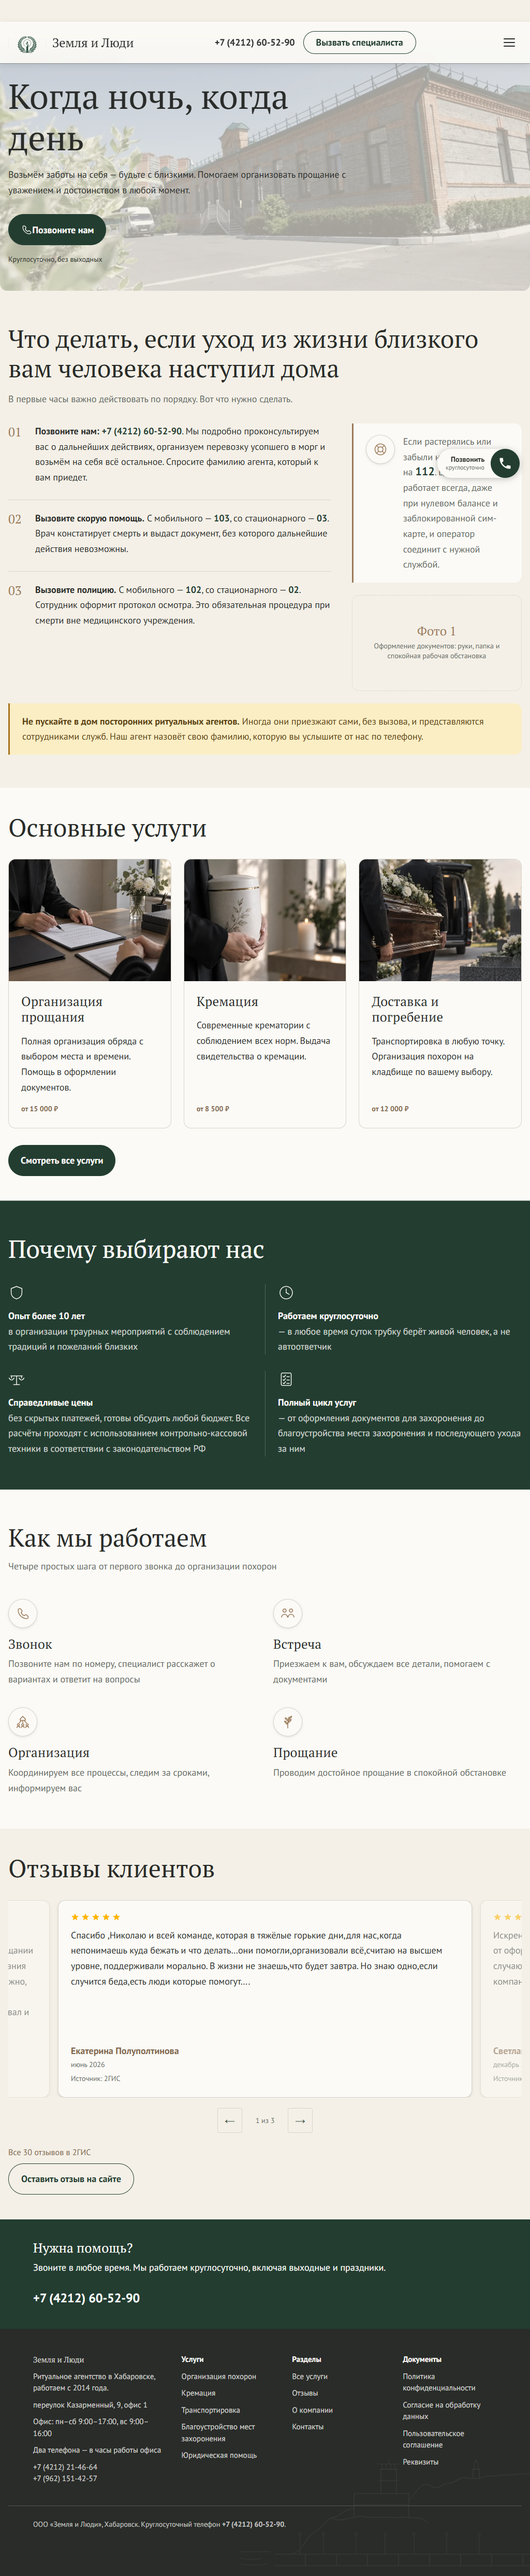
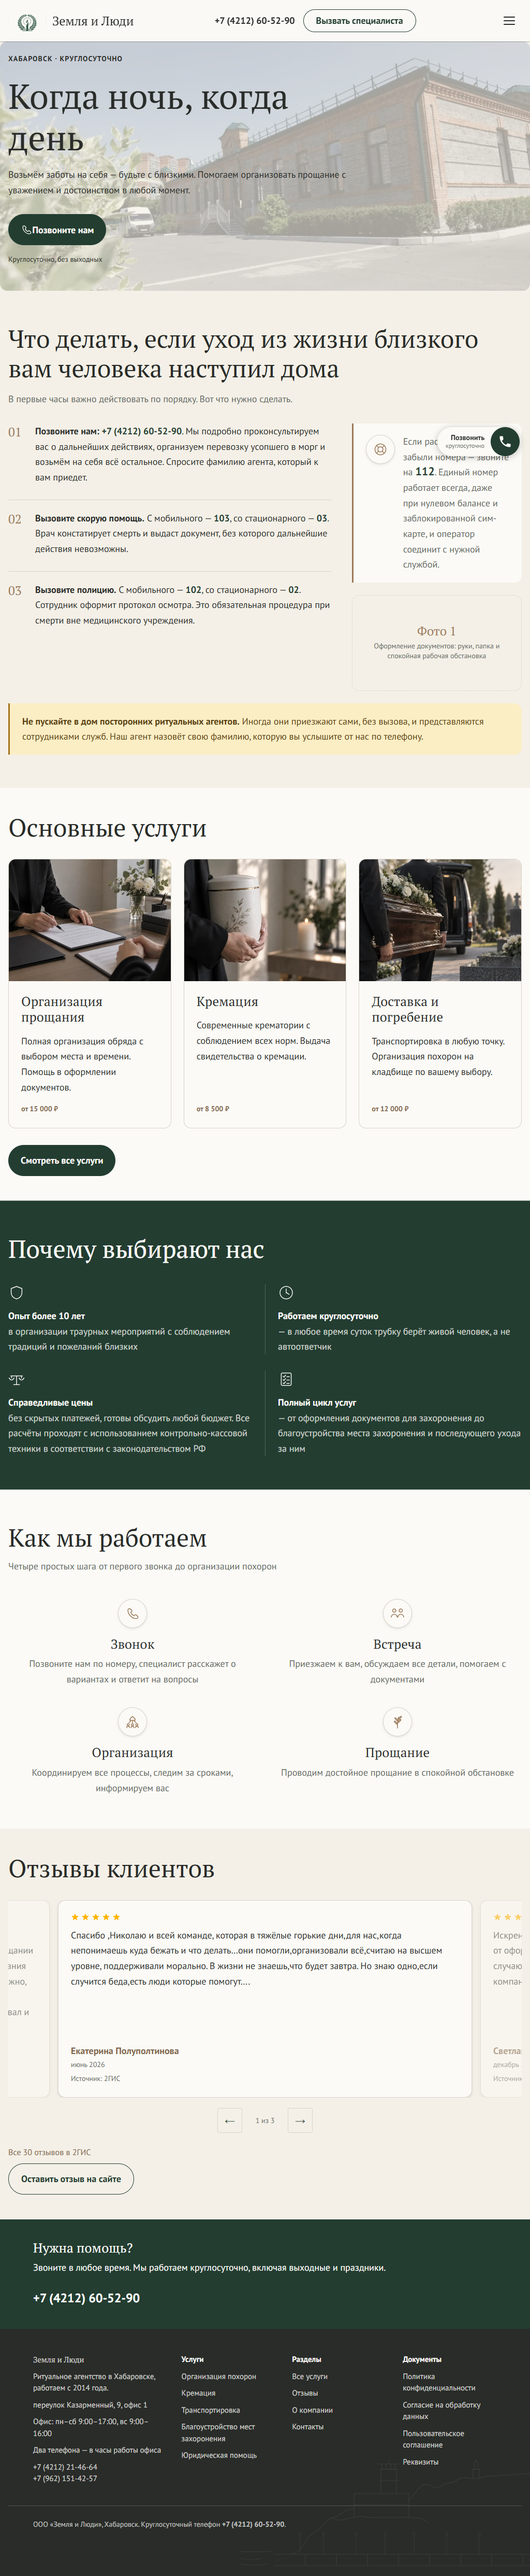
Этапы: содержимое по центру колонок, линия по центрам кружков, пороги 1050 и 760

diff --git a/wp-content/themes/razil/assets/css/main.css b/wp-content/themes/razil/assets/css/main.css
@@ -2982,14 +2982,26 @@ header.wp-block-template-part:not(:has(.rz-breadcrumbs)) + .wp-block-group {
 	color: var(--rz-ink-soft);
 }
 
-@media (max-width: 67.99rem) {
+/* Пороги раскладки: до 1050 px две колонки, до 760 px столбик.
+
+   Прежние 67.99rem (1087.84 px) и 47.99rem (767.84 px) заменены
+   на 65.625rem (1050) и 47.5rem (760). 1050 — тот же порог, на
+   котором в шапке появляется навигация: на этой ширине контейнер
+   даёт колонке 266 px, и четвёртый шаг уже не помещается в строку
+   без переноса заголовка.
+
+   Условия ветвей дополняют друг друга без щели: до 1050 включительно
+   две колонки, выше — четыре из основного правила. Дробных значений
+   вроде 67.99rem больше нет, поэтому на экране шириной 1050.5 px
+   не остаётся раскладки «ничья». */
+@media (max-width: 65.625rem) {
 	.rz-steps__grid {
 		grid-template-columns: repeat(2, minmax(0, 1fr));
 		gap: 2.5rem 2rem;
 	}
 }
 
-@media (max-width: 47.99rem) {
+@media (max-width: 47.5rem) {
 	.rz-steps__grid {
 		grid-template-columns: minmax(0, 1fr);
 		gap: 2rem;
@@ -4569,26 +4581,63 @@ html:not(.rz-js) .rz-cb-open {
 	background: none;
 }
 
+/* Содержимое шага стоит по центру своей колонки.
+
+   До правки всё в шаге равнялось по левому краю, и кружок иконки
+   прижимался к левой кромке колонки. Замер на 1366: центры кружков
+   131, 429, 727, 1025 при центрах колонок 236, 534, 832, 1130 —
+   каждый кружок смещён от центра своей колонки на 105 px влево.
+   Линия процесса шла от 131 до 1025, и справа от неё до правого
+   края сетки оставался хвост в 238 px. Ряд читался сдвинутым влево,
+   хотя сама сетка стоит в контейнере ровно: поля 103 | 103
+   на 1366 и 380 | 380 на 1920.
+
+   На вертикальной раскладке центровка снимается: там колонка одна
+   и во всю ширину, а абзац в три строки по центру читается хуже,
+   чем по левому краю. */
+.rz-step {
+	text-align: center;
+}
+
 /* Линия проходит под кружками иконок и обрывается на их центрах.
 
-   Кружок стоит у левого края колонки, поэтому слева линия начинается
-   на его половине — 1.75rem при диаметре 3.5rem. Справа до центра
-   последнего кружка остаётся 25% - 0.75g - 1.75rem; при зазоре
-   g = 2rem это 25% - 3.25rem. Замерено: линия кончается ровно
-   на центре четвёртого кружка.
+   Кружки теперь стоят по центрам колонок, поэтому с каждой стороны
+   линия отступает на половину колонки. При четырёх дорожках и трёх
+   зазорах g ширина колонки — (100% - 3g)/4, половина — (100% - 3g)/8;
+   при g = 2rem это (100% - 6rem)/8. Отступ одинаков слева и справа,
+   и линия получается симметричной — в отличие от прежней арифметики
+   1.75rem слева и 25% - 3.25rem справа, которая отсчитывалась
+   от кружка, прижатого к левому краю колонки.
+
+   Проценты здесь считаются от ширины самой сетки: она
+   position: relative и служит содержащим блоком.
 
    Кружок .rz-icon непрозрачен и закрывает линию собой, поэтому
    отдельной подложки не нужно. Секция «Как мы работаем» идёт
    на --rz-surface, и заливка кружка та же — стык невидим. */
-@media (min-width: 68rem) {
+.rz-steps__grid::before {
+	content: "";
+	position: absolute;
+	left: calc((100% - 6rem) / 8);
+	right: calc((100% - 6rem) / 8);
+	top: 1.75rem;
+	height: 1px;
+	background-color: var(--rz-line);
+}
+
+/* В двух колонках линии нет: она соединила бы шаги 1-2 и 3-4
+   в две несвязанные пары, а порядок процесса от этого перестал бы
+   читаться. Условие ветки то же самое, что у перехода на две
+   колонки, — 65.625rem: разойтись они не могут. */
+@media (max-width: 65.625rem) {
 	.rz-steps__grid::before {
-		content: "";
-		position: absolute;
-		left: 1.75rem;
-		right: calc(25% - 3.25rem);
-		top: 1.75rem;
-		height: 1px;
-		background-color: var(--rz-line);
+		content: none;
+	}
+}
+
+@media (max-width: 47.5rem) {
+	.rz-step {
+		text-align: start;
 	}
 }
 

diff --git a/_reports/fixes-main-2026-09-21.md b/_reports/fixes-main-2026-09-21.md
@@ -14,7 +14,7 @@
 |--------|-----------|---------|
 | 1. Шапка | завершена | ПРОШЁЛ |
 | 2. Боковой блок с примечанием 112 | завершена | ПРОШЁЛ |
-| 3. Блок «Как мы работаем» | не начата | — |
+| 3. Блок «Как мы работаем» | завершена | ПРОШЁЛ |
 | 4. Блок «Нужна помощь?» | не начата | — |
 | 5. Плавающая кнопка звонка | не начата | — |
 
@@ -566,3 +566,187 @@ tokens.css, строки 30–32). Я сначала перекрасил ико
 Предполагаемое лечение — `min-height: 100%` вместо `height: 100%`.
 
 **Вердикт задачи 2: ПРОШЁЛ.**
+
+---
+
+## Задача 3 — Блок «Как мы работаем»
+
+### Разведка: что было
+
+Замер до правки, 1366 и 1920 px:
+
+```
+1366:  сетка 103..1263   поля секции 103 | 103   колонки 266 266 266 266, зазор 32
+       центры колонок  236   534   832   1130
+       центры кружков  131   429   727   1025
+       линия           131 .. 1025
+       выравнивание    start
+
+1920:  сетка 380..1540   поля секции 380 | 380   колонки 266 266 266 266, зазор 32
+       центры колонок  513   811   1109  1407
+       центры кружков  408   706   1004  1302
+       линия           408 .. 1302
+```
+
+Смотрел снимок глазами. Сетка в контейнере стоит ровно — поля слева
+и справа равны, 103 | 103 и 380 | 380. Но внутри каждой колонки всё
+прижато влево, и кружок иконки стоит на 105 px левее центра своей
+колонки. Из-за этого вся цепочка кружков смещена к левому краю,
+а справа от последнего кружка до правой кромки сетки остаётся
+238 px пустоты. Раздел выглядит съехавшим влево, хотя сетка ни при
+чём — дело в выравнивании внутри колонок.
+
+Порог перехода на две колонки стоял на 67.99rem (1087.84 px),
+на одну — на 47.99rem (767.84 px).
+
+### Что сделано
+
+Только стили, разметка не тронута.
+
+| Правило | Было | Стало |
+|---------|------|-------|
+| `.rz-step` | выравнивание по левому краю | `text-align: center` |
+| `.rz-steps__grid::before` | `left: 1.75rem; right: calc(25% - 3.25rem)`, в ветке `min-width: 68rem` | `left`/`right`: `calc((100% - 6rem) / 8)`, в основном правиле |
+| две колонки | `max-width: 67.99rem` | `max-width: 65.625rem` (1050) |
+| одна колонка | `max-width: 47.99rem` | `max-width: 47.5rem` (760) |
+| линия на узких | выключалась порогом 68rem | `content: none` в ветке 65.625rem |
+| `.rz-step` на узких | — | `text-align: start` в ветке 47.5rem |
+
+Сетка и так была во всю ширину контейнера и из четырёх равных
+дорожек `repeat(4, minmax(0, 1fr))` — это осталось без изменений,
+включая `minmax(0, 1fr)`. Иконка-ветка осталась последней: порядок
+шагов в разметке не трогался вовсе.
+
+### Арифметика линии
+
+Кружки стоят по центрам колонок, значит с каждой стороны линия
+отступает на половину колонки. При четырёх дорожках и трёх зазорах
+`g` ширина колонки — `(100% - 3g) / 4`, половина — `(100% - 3g) / 8`;
+при `g = 2rem` это `calc((100% - 6rem) / 8)`. Проценты считаются
+от ширины сетки: она `position: relative` и служит содержащим
+блоком для псевдоэлемента. Обе стороны получают одно и то же
+выражение, поэтому линия симметрична по построению, а не по подгонке.
+
+### Замеры и критерии приёмки
+
+**К1. Линия совпадает с центрами первого и последнего кружка.**
+Проверка та же, что вёл прошлый прогон («линия 28..922, кружки
+28..922, СОВПАЛО»), пересчитанная под новую геометрию:
+
+```
+1366 z100  линия 236 .. 1130   кружки 236 .. 1130   СОВПАЛО
+1920 z100  линия 513 .. 1407   кружки 513 .. 1407   СОВПАЛО
+1051 z100  линия 131 .. 920    кружки 131 .. 920    СОВПАЛО
+1366 z200  линия 171 .. 1195   кружки 171 .. 1195   СОВПАЛО
+1920 z200  линия 240 .. 1680   кружки 240 .. 1680   СОВПАЛО
+```
+
+При 200 % текста совпадение сохраняется само: и зазор сетки,
+и вычитаемые 6rem заданы в rem и растут вместе с текстом.
+
+**К2. Поля контейнера слева и справа равны.**
+
+```
+1366: 103 | 103
+1920: 380 | 380
+```
+
+Сетка шагов начинается ровно там же, где заголовок раздела
+(`заголовок от 103` и `от 380`).
+
+**К3. Содержимое центрировано в своей колонке.** Центр кружка
+совпал с центром колонки на всех четырёх шагах:
+
+```
+1366: колонки 236 534 832 1130   кружки 236 534 832 1130
+1920: колонки 513 811 1109 1407  кружки 513 811 1109 1407
+```
+
+**К4. Пороги раскладки.** Проверены по обе стороны от каждого
+порога, а не «примерно»:
+
+| Ширина | Колонок | Линия | Выравнивание |
+|--------|---------|-------|--------------|
+| 375 | 1 | нет | по левому краю |
+| 760 | 1 | нет | по левому краю |
+| 761 | 2 | нет | по центру |
+| 1024 | 2 | нет | по центру |
+| 1050 | 2 | нет | по центру |
+| 1051 | 4 | есть | по центру |
+| 1366 | 4 | есть | по центру |
+| 1920 | 4 | есть | по центру |
+
+Ветви дополняют друг друга без щели: у перехода на две колонки
+и у выключения линии одно и то же условие `max-width: 65.625rem`,
+поэтому раскладки «четыре колонки без линии» или «две колонки
+с линией» не существует ни при какой ширине, включая дробные.
+
+**К5. Вертикальная раскладка — выравнивание по левому краю.**
+На 375 и 760 `text-align` возвращается к `start`: абзац в три
+строки во всю ширину экрана по центру читается хуже. Это
+единственное место, где центровка отменяется, и ограничено оно
+той же веткой, что и сама вертикальная раскладка (И16).
+
+**К6. Снимки.** Что вижу глазами на 1366: четыре кружка стоят
+на одной линии, расстояния от левого края сетки до первого кружка
+и от последнего до правого края одинаковы; под каждым кружком
+заголовок и три строки текста по центру колонки; иконка ветки —
+последняя. На 1024 две колонки по два шага, линии нет, центровка
+сохранена. На 375 столбик: кружок, заголовок и текст по левому
+краю, как было.
+
+### Протокол проверки
+
+**П1 `git diff --stat`** — один файл:
+
+```
+ wp-content/themes/razil/assets/css/main.css | 79 +++++++++++++++++-----
+```
+
+**П2 круговорот блоков:** `--- ИТОГО: проверено 36, упало 0`
+(разметка не менялась, проверка на всякий случай).
+
+**П3 побайтовые проверки:** `main.css` — CRLF, без BOM, прошёл.
+
+**П4 и П5 текст, телефоны, суммы:** расхождение с базой ровно одно
+и то же, что после задачи 2, — подсказка заглушки. Телефоны 8 → 8,
+суммы 6 → 6.
+
+**П6 обход главной на пяти ширинах:** `Срезов с замечаниями: 0 из 5`.
+
+**П7 зона нажатия 112** (задача 2 на регрессию): 375 и 1366,
+зона 44x61, все четыре кромки нажимаются.
+
+**П8 скриншоты** — `_reports/shots/after/`, см. К6.
+
+**П9 регрессия по 200 %** — обход 19 страниц на 375 и 768.
+Здесь надо сказать точно: **первый прогон дал `1 из 38`**, и это
+не задача 3. Замечание — «висящая кнопка звонка перекрывает подвал»
+на главной, 375 px, 200 %. При повторных прогонах того же среза
+пять раз подряд получилось `0 из 1`, то есть проверка неустойчива:
+она зависит от того, где стоит прокрутка в момент пробоя.
+Второй полный обход дал `0 из 38`.
+
+Замечание я не списываю на помеху: перекрытие подвала висящей
+кнопкой — предмет задачи 5, и там оно будет проверено прицельно
+и устранено. Считать, что его нет, потому что второй прогон
+показал ноль, было бы ровно той ошибкой, о которой говорит
+задание.
+
+**П10 консоль:** ошибок нет.
+
+**П11 добавленные `!important`:** **ни одного.**
+
+**П12 `overflow` на выносках и элементах с `::after` тап-зон:**
+правил с `hidden`/`clip` на этих селекторах — 0.
+
+**П13 клавиатура:** порядок обхода не менялся (правка
+не затрагивает разметку и фокусируемые элементы), обводка
+2px solid на месте.
+
+**Шапка после правки:** `срезов с замечаниями: 0 из 5`.
+
+**Горизонтальная прокрутка при 200 %:** `scrollWidth` = `clientWidth`
+на 375, 768, 1024, 1366 и 1920.
+
+**Вердикт задачи 3: ПРОШЁЛ.**
